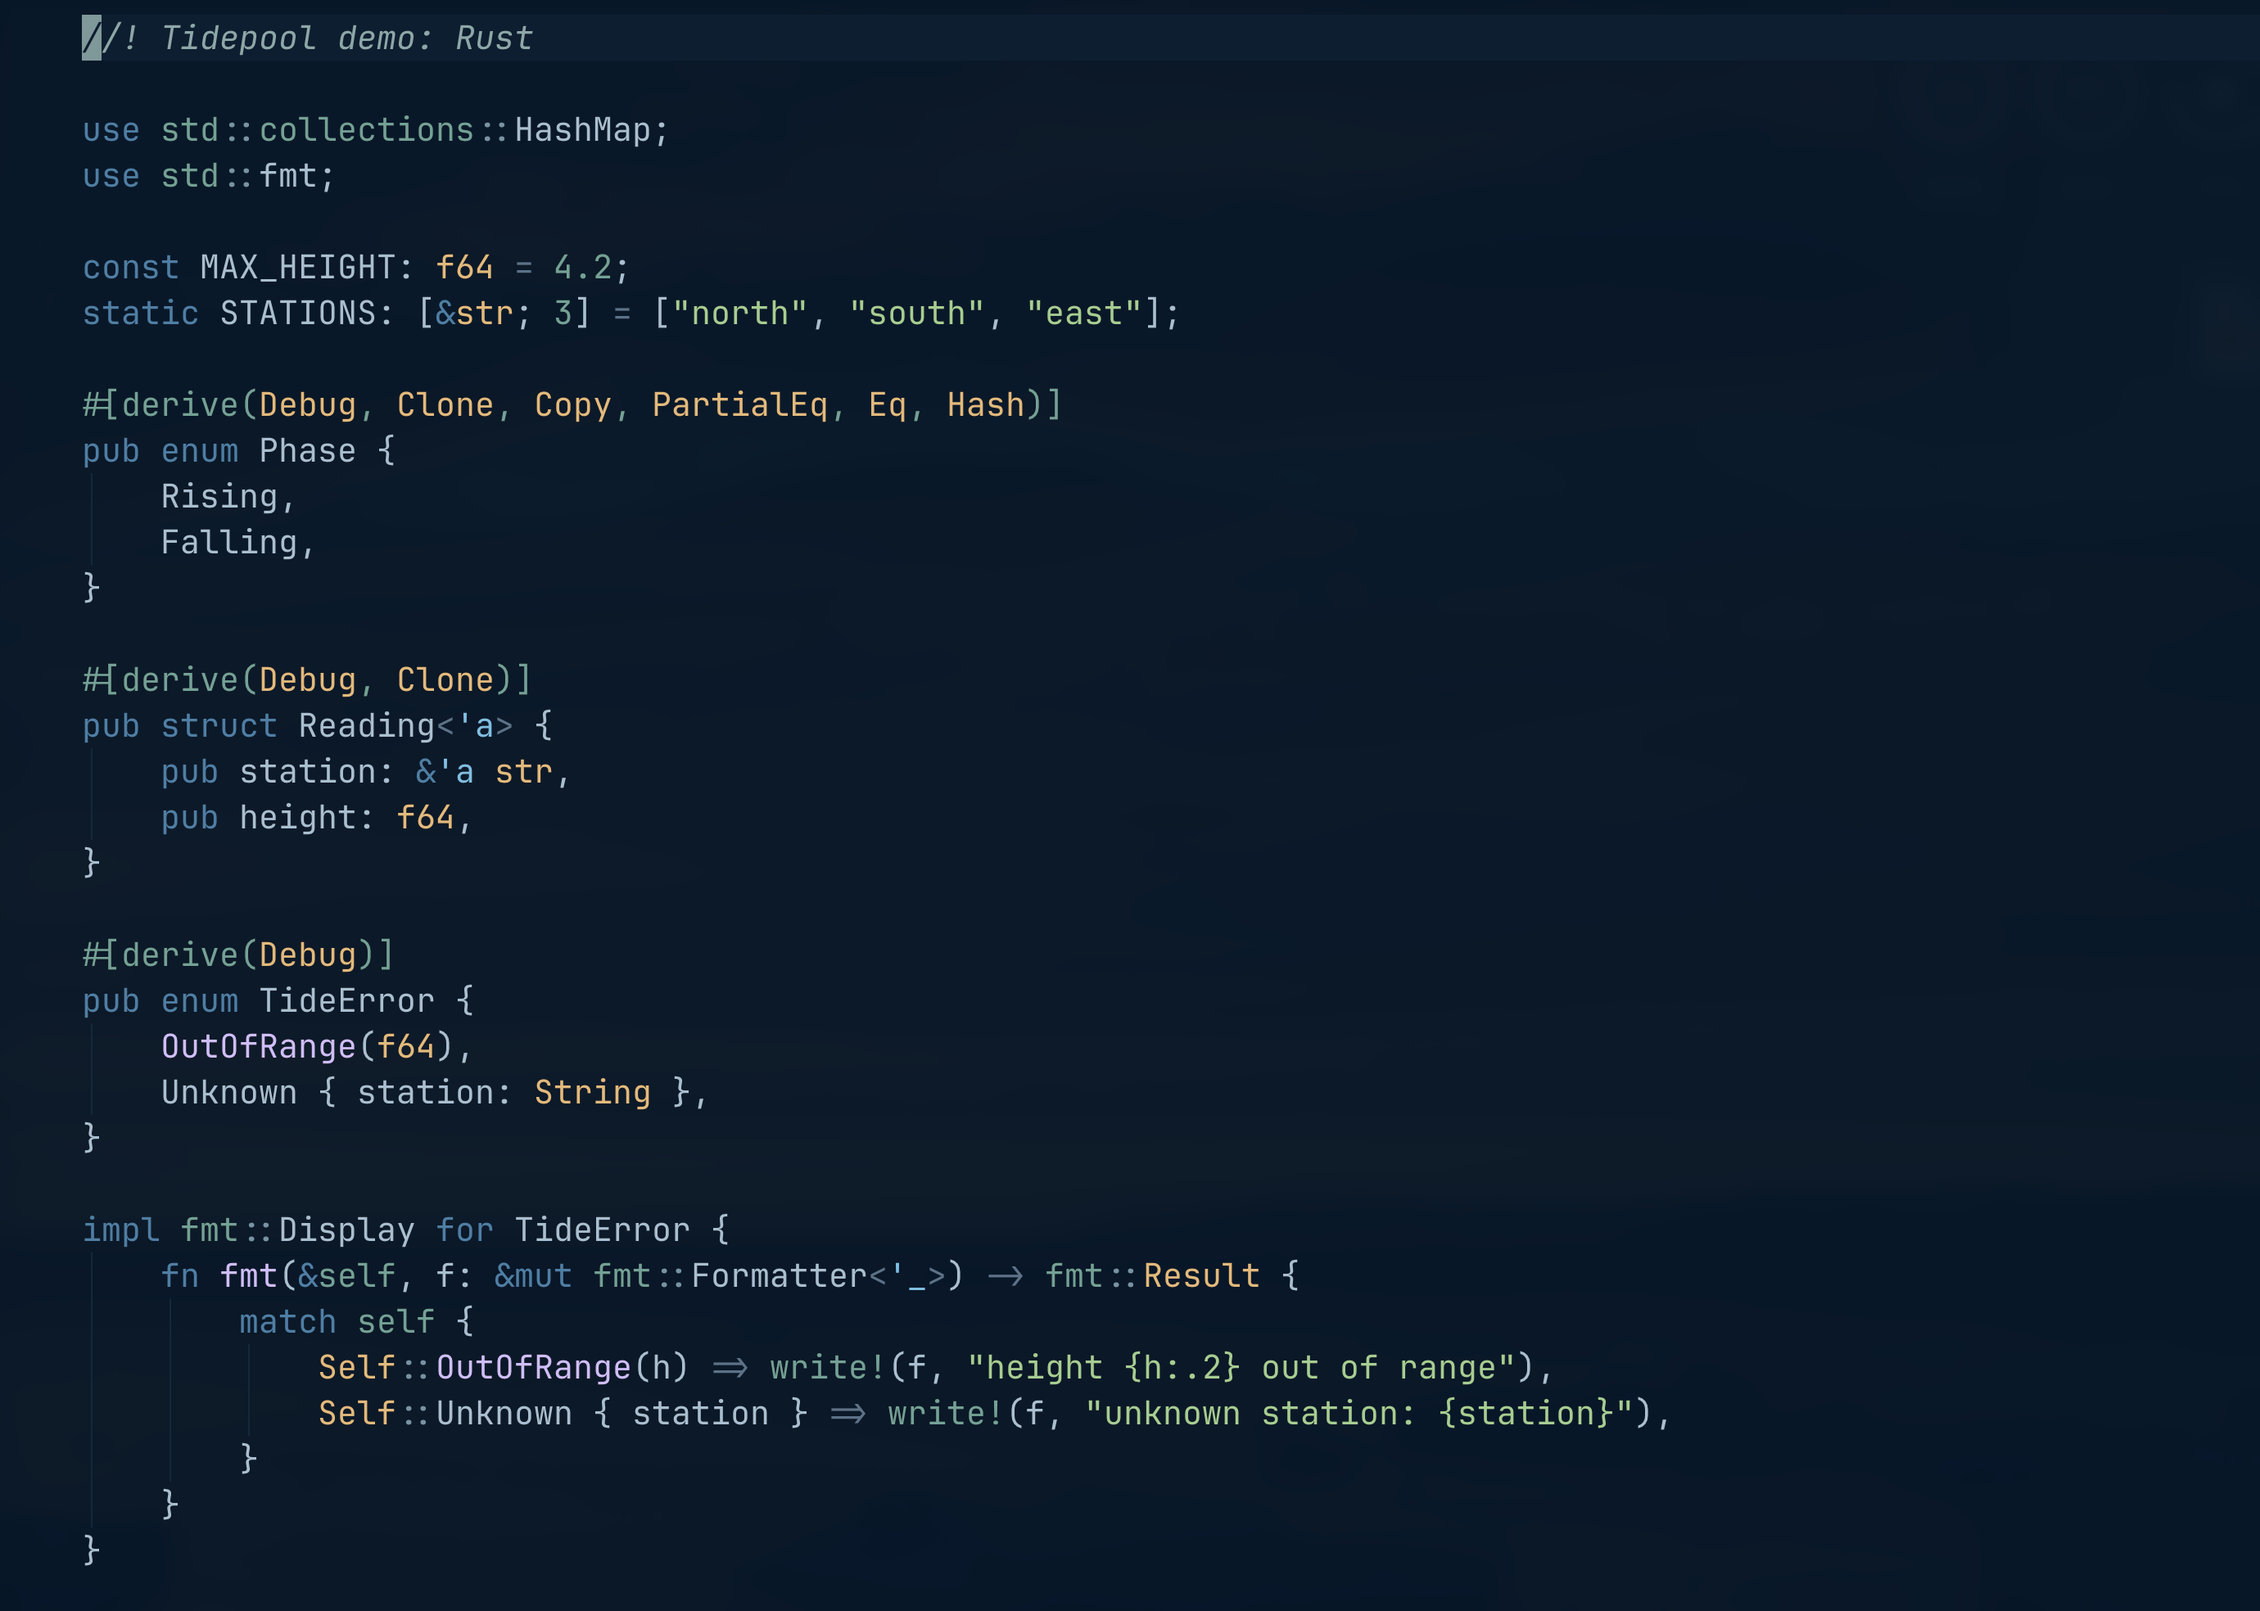
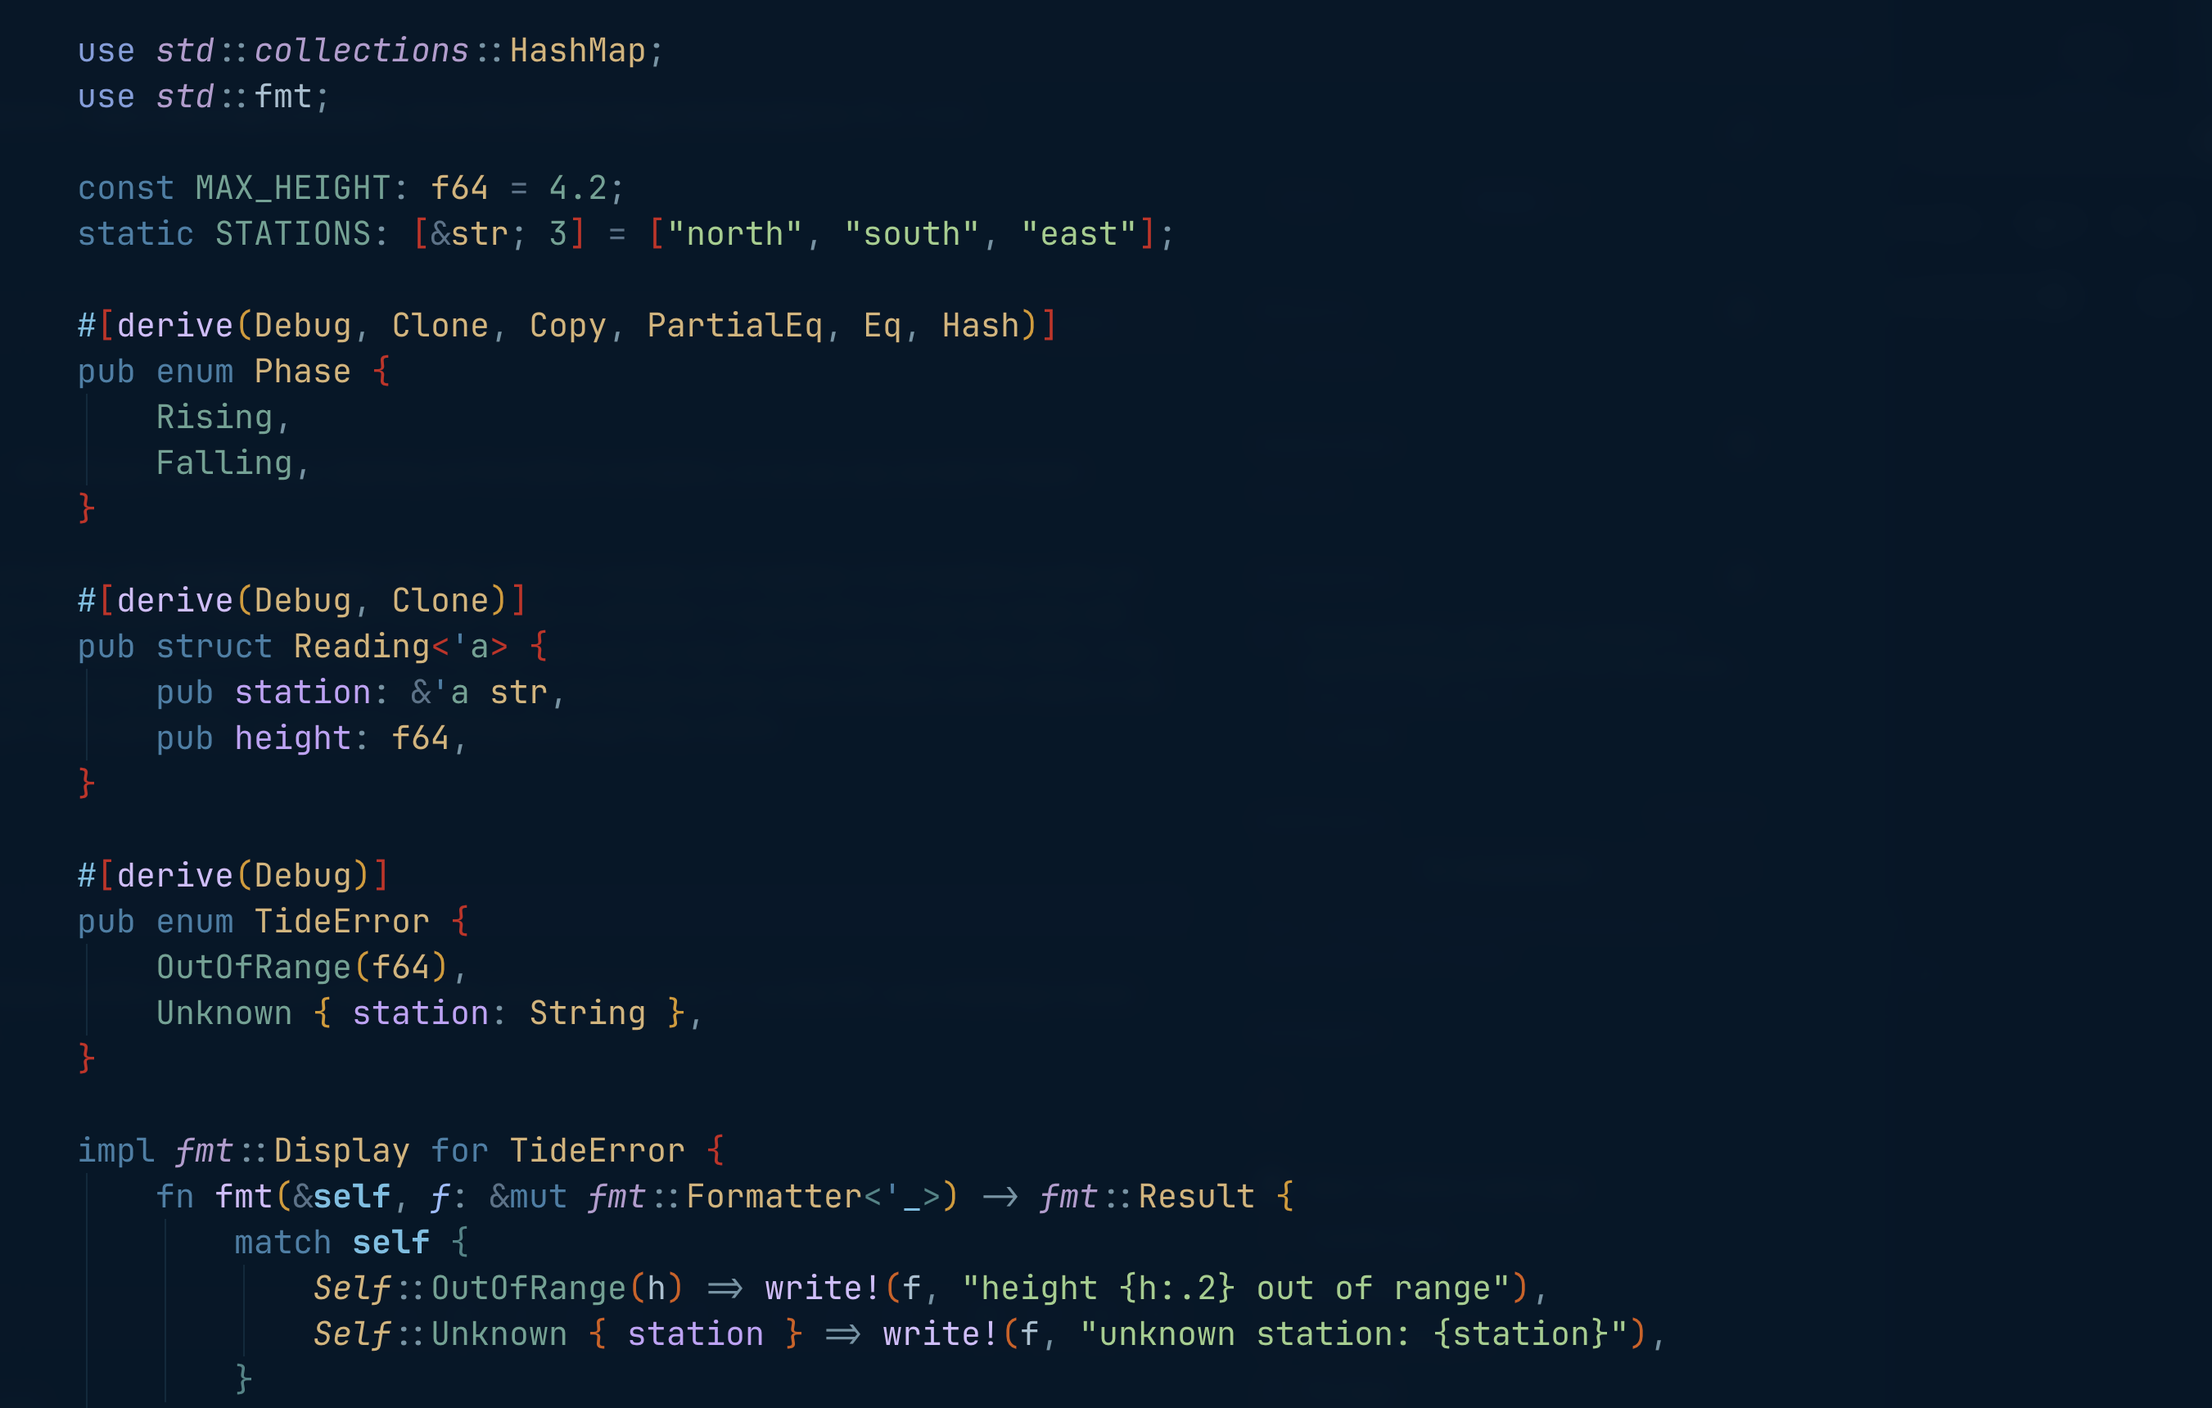
docs(readme): refresh screenshots, keep TypeScript, TSX, and Rust
New TypeScript and Rust captures use treesitter and show no diagnostics.
The TSX capture is cropped below the import line to drop the unresolved
module error. Go and HTML shots are removed.

diff --git a/README.md b/README.md
@@ -12,19 +12,11 @@ pine constants. Bold is reserved for definitions.
 <table>
   <tr>
     <th>TSX / React</th>
-    <th>Go</th>
+    <th>Rust</th>
   </tr>
   <tr>
     <td><img src="assets/screenshots/tsx.png" alt="TSX / React" /></td>
-    <td><img src="assets/screenshots/go.png" alt="Go" /></td>
-  </tr>
-  <tr>
-    <th>Rust</th>
-    <th>HTML</th>
-  </tr>
-  <tr>
     <td><img src="assets/screenshots/rust.png" alt="Rust" /></td>
-    <td><img src="assets/screenshots/html.png" alt="HTML" /></td>
   </tr>
 </table>
 
